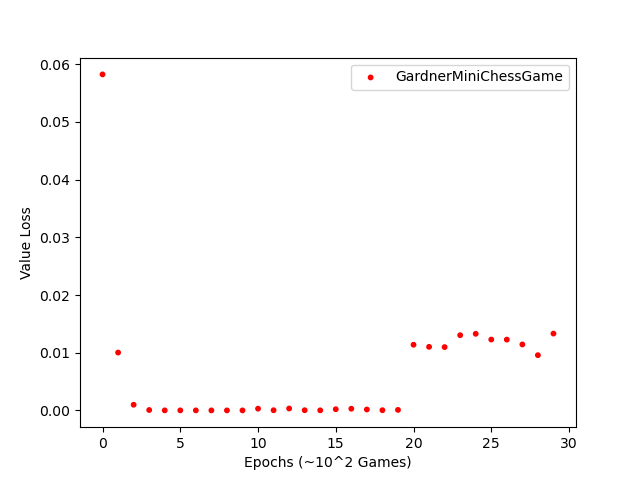
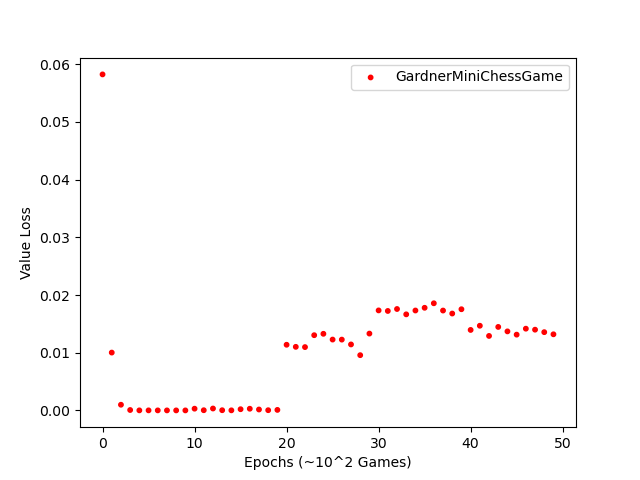
Implemented our metatraining loop for a JOAT model. Updated README.

diff --git a/learning/alpha_zero/distributed/joat_coach.py b/learning/alpha_zero/distributed/joat_coach.py
@@ -19,6 +19,8 @@ from learning.alpha_zero.distributed.mcts import MCTS
 
 from multiprocessing import Pool
 
+import copy
+
 log = logging.getLogger(__name__)
 
 class JOATCoach():
@@ -184,6 +186,103 @@ class JOATCoach():
                 gwinrates.append(float(nwins) / float(pwins + nwins + draws))
                 self.plot_win_rate(gwinrates, 'Greedy')
 
+    def metalearn(self):
+        """
+        Performs numIters iterations with numEps episodes of self-play in each
+        iteration. After every iteration, it retrains neural network with
+        examples in trainExamples (which has a maximum length of maxlenofQueue).
+        It then pits the new neural network against the old one and accepts it
+        only if it wins >= updateThreshold fraction of games.
+        """
+
+        avg_losses = []
+        rwinrates = []
+        gwinrates = []
+
+        for i in range(1, self.args['numIters'] + 1):
+
+            policies_prime = []
+            pi_sum = 0, v_sum = 0
+            counter = 0
+            
+            # bookkeeping
+            log.info(f'Starting Meta-Iteration #{i} ...')
+
+            # for task in tasks...
+            for _ in range(self.args['taskBatchSize']):
+
+                # create deepcopy for training a theta'
+                policy_prime = copy.deepcopy(self.nnet)
+            
+                # sample a game (task)
+                game = np.random.choice(self.games, p=self.probs)
+                log.info(f'Sampled game {type(game).__name__} ...')
+
+                # multiprocess to get our training examples
+                iterationTrainExamples = deque([], maxlen=self.args['maxlenOfQueue'])
+                iterationTrainExamples = run_apply_async_multiprocessing(self.executeEpisode, [(MCTS(game, self.nnet, self.args), type(game)(), self.args.copy())] * self.args['numEps'], self.args['numWorkers'], desc='Self Play')
+                iterationTrainExamples = list(itertools.chain.from_iterable(iterationTrainExamples))
+
+                # shuffle examples before training
+                shuffle(iterationTrainExamples)
+
+                # train our network
+                pi_v_losses = policy_prime.train(iterationTrainExamples)
+
+                policies_prime.append(policies_prime.state_dict())
+
+                for pi,v in pi_v_losses:
+                    pi_sum += pi
+                    v_sum += v
+                    counter += 1
+            
+            # compute average parameters and load into self.nnet
+            self.nnet.load_average_params(policies_prime)
+
+            # compute average losses
+            avg_losses.append((float(pi_sum) / counter, float(v_sum) / counter, ''))
+            self.plot_current_progress(avg_losses)
+
+            # training new network, keeping a copy of the old one
+            self.nnet.save_checkpoint(folder=self.args['checkpoint'] + '/meta', filename='temp.pth.tar')
+            self.pnet.load_checkpoint(folder=self.args['checkpoint'] + '/meta', filename='temp.pth.tar')
+            pmcts = MCTS(self.games[0], self.pnet, self.args)
+
+
+            # Arena if we choose to run it
+            if self.args['arenaComparePerGame'] > 0:
+                # ARENA
+                nmcts = MCTS(self.games[0], self.nnet, self.args)
+
+                log.info('PITTING AGAINST PREVIOUS VERSION')
+                arena = Arena()
+                pwins, nwins, draws = arena.playGames(self.pnet, self.nnet, self.args, self.games)
+
+                log.info('NEW/PREV WINS : %d / %d ; DRAWS : %d' % (nwins, pwins, draws))
+                if pwins + nwins == 0 or float(nwins) / (pwins + nwins) < self.args['updateThreshold']:
+                    log.info('REJECTING NEW MODEL')
+                    self.nnet.load_checkpoint(folder=self.args['checkpoint'], filename='temp.pth.tar')
+                else:
+                    log.info('ACCEPTING NEW MODEL')
+                    self.nnet.save_checkpoint(folder=self.args['checkpoint'], filename=self.getCheckpointFile(i))
+                    self.nnet.save_checkpoint(folder=self.args['checkpoint'], filename='best.pth.tar')
+
+            # our baselines if we choose to run them
+            if self.args['evalOnBaselines']:
+                mod_args = self.args.copy()
+                mod_args['arenaComparePerGame'] = 20
+
+                log.info('Evaluating against baselines...')
+
+                arena = Arena()
+                pwins, nwins, draws = arena.playGames('random', self.nnet, mod_args, self.games)
+                rwinrates.append(float(nwins) / float(pwins + nwins + draws))
+                self.plot_win_rate(rwinrates, 'Random')
+
+                arena = Arena()
+                pwins, nwins, draws = arena.playGames('greedy', self.nnet, mod_args, self.games)
+                gwinrates.append(float(nwins) / float(pwins + nwins + draws))
+                self.plot_win_rate(gwinrates, 'Greedy')
 
     def getCheckpointFile(self, iteration):
         return 'checkpoint_' + str(iteration) + '.pth.tar'

diff --git a/scripts/train.py b/scripts/train.py
@@ -15,6 +15,8 @@ if __name__ == "__main__": # for multiprocessing
 
     parser = argparse.ArgumentParser(description='Train a multitasking minichess model.')
 
+    parser.add_argument('--loading_path', action='store', default=None, help='Path to the learning model weights.')
+
     parser.add_argument('--iterations', action='store', default='500', type=int, help='Number of full AlphaZero iterations to run for training (default: 500)')
 
     parser.add_argument('--episodes', action='store', default='100', type=int, help='Number of episodes of self-play per iteration (default: 100)' )
@@ -29,9 +31,11 @@ if __name__ == "__main__": # for multiprocessing
 
     parser.add_argument('--workers', action='store', default='1', type=int, help='The number of workers to use to process self- and arena-play. A value >1 will leverage multiprocessing. (default: 1)')
 
-    parser.add_argument('--games', dest='games', action='store', nargs='+', default='gardner', choices=['gardner', 'mallet', 'baby', 'rifle', 'dark', 'atomic'], type=str, help='The games to consider during training. (default: just gardner)')
+    parser.add_argument('--games', dest='games', action='store', nargs='+', default='gardner', choices=['gardner', 'mallet', 'baby', 'rifle', 'dark', 'atomic'], type=str, help='The games to consider during training. If more than one game is input, we will metatrain. (default: just gardner)')
 
     parser.add_argument('--probs', action='store', nargs='+', type=float, default=None, help='The probabilities of the games to consider during training. The ith probability corresponds to the ith game provided. If no value is provided, this defaults to a uniform distribution across the provided games. (default: uniform dist)')
+
+    parser.add_argument('--task_batch_size', action='store', type=int, default=4, help='The number of tasks to sample in a given metalearning iteration. Not used if len(games) <= 1. (default: 4)')
 
     parser.add_argument('--eval_on_baselines', action='store_true', default=False, help='If passed in, we will evaluate our model against random and greedy players and plot the win rates.')
 
@@ -61,6 +65,7 @@ if __name__ == "__main__": # for multiprocessing
         'arenaComparePerGame': args.arenapergame,         # Number of games to play during arena play to determine if new net will be accepted.
         'cpuct': 1,
         'maxMoves': args.max_moves,
+        'taskBatchSize': args.task_batch_size,
 
         'numWorkers': args.workers,
         'cuda': True,
@@ -68,8 +73,8 @@ if __name__ == "__main__": # for multiprocessing
         'evalOnBaselines': args.eval_on_baselines,
 
         'checkpoint': './temp/',
-        'load_model': False,
-        'load_folder_file': ('/dev/models/8x100x50','best.pth.tar'),
+        'load_model': not args.learning_path is None,
+        'load_folder_file': ('/'.join(args.learning_path.split('/')[:-1]),args.learning_path.split('/')[-1]),
         'numItersForTrainExamplesHistory': 20,
     })
 
@@ -118,6 +123,8 @@ if __name__ == "__main__": # for multiprocessing
         log.warning('Not loading a checkpoint!')
 
     log.info('Loading the JOAT Coach...')
+
+        
     c = JOATCoach(games, probs, nnet, train_args)
     # c = Coach(g, nnet, args)
 
@@ -125,5 +132,9 @@ if __name__ == "__main__": # for multiprocessing
         log.info("Loading 'trainExamples' from file...")
         c.loadTrainExamples()
 
-    log.info('Starting the learning process 🎉')
-    c.learn()
+    if len(games) > 1:
+        log.info('Starting the metalearning process 🎉')
+        c.metalearn()
+    else:
+        log.info('Starting the learning process 🎉')
+        c.learn()

diff --git a/learning/alpha_zero/distributed/pytorch/NNet.py b/learning/alpha_zero/distributed/pytorch/NNet.py
@@ -1,8 +1,10 @@
+from copy import copy
 import os
 import sys
 import time
 
 import numpy as np
+from numpy.lib.function_base import average
 from tqdm import tqdm
 
 from learning.alpha_zero.distributed.utils import *
@@ -31,14 +33,17 @@ class NNetWrapper(NeuralNet):
         self.board_x, self.board_y = (5, 5)
         self.action_size = LEN_ACTION_SPACE
 
-        if args['cuda']:
-            self.nnet.cuda()
+        # if args['cuda']: # can't happen with multiprocessing
+        #     self.nnet.cuda()
 
     def train(self, examples):
         """
         examples: list of examples, each example is of form (board, pi, v)
         """
         optimizer = optim.Adam(self.nnet.parameters())
+
+        if args['cuda']: # this is not multiprocessed so we can use CUDA
+            self.nnet = self.nnet.cuda()
 
         losses = []
 
@@ -59,7 +64,7 @@ class NNetWrapper(NeuralNet):
                 target_vs = torch.FloatTensor(np.array(vs).astype(np.float64))
 
                 # predict
-                if args['cuda']:
+                if args['cuda']: # this is not multiprocessed so we can use CUDA
                     boards, target_pis, target_vs = boards.contiguous().cuda(), target_pis.contiguous().cuda(), target_vs.contiguous().cuda()
 
                 # compute output
@@ -78,6 +83,10 @@ class NNetWrapper(NeuralNet):
                 total_loss.backward()
                 optimizer.step()
             losses.append((pi_losses.avg,v_losses.avg))
+
+        # back to CPU
+        self.nnet = self.nnet.cpu()
+
         return losses
 
     def predict(self, board):
@@ -91,7 +100,7 @@ class NNetWrapper(NeuralNet):
         board = board[np.newaxis, :, :]
         # preparing input
         board = torch.FloatTensor(board.astype(np.float64))
-        if args['cuda']: board = board.contiguous().cuda()
+        # if args['cuda']: board = board.contiguous().cuda() # does not work with multiprocessing
         board = board.view(1, self.board_x, self.board_y)
         self.nnet.eval()
         with torch.no_grad():
@@ -126,7 +135,44 @@ class NNetWrapper(NeuralNet):
         checkpoint = torch.load(filepath, map_location=map_location)
         self.nnet.load_state_dict(checkpoint['state_dict'])
 
+    def state_dict(self):
+        '''
+            Returns
+            -------
+            The state_dict of self.nnet
+        '''
+        return self.nnet.state_dict()
+
+    def load_average_params(self, state_dicts):
+        '''
+            Given a list of state_dicts, take the average across them all
+            and set self.nnet's weights as this average.
+
+            Returns
+            -------
+            the average state_dict
+        '''
+
+        first_dict = state_dicts[0]
+
+        avg_dict = {}
+
+        for key in first_dict:
+            avg_dict[key] = average(np.array([d[key] for d in state_dicts]))
+
+        self.nnet.load_state_dict(avg_dict)
+
+        return avg_dict
+
     def __getstate__(self):
         self_dict = self.__dict__.copy()
         if 'pool' in self_dict: del self_dict['pool']
         return self_dict
+
+    def __deepcopy__(self, memo):
+        net = NNetWrapper(self.game)
+        net.nnet = copy.deepcopy(self.net, memo)
+        net.board_x = self.board_x
+        net.board_y = self.board_y
+        net.action_size = self.action_size
+        return net

diff --git a/README.md b/README.md
@@ -292,6 +292,33 @@ TODO
 
 ![assets/mvta_arch.png](assets/mvta_arch.png)
 
+Our meta-training architecture for multiple variants is very similar to [MAML for RL](https://arxiv.org/pdf/1703.03400.pdf), and was inspired by a project done for [MIT's 6.882](https://phillipi.github.io/6.882/2019/) in Spring of 2019: [INSECT](https://echen9898.github.io/assets/2019-05-18/882_Report.pdf). The double gradient loop of MAML requires many self-play iterations, which prove to be the most costly portion of the training loop. By removing the second gradient loop and instead take an average over the policies found in the inner loop, we cut down on a significant amount of training time. In exposing our model to our distribution of tasks by sampling a rule-variant and running it through our SVTA, we aim to produce a Jack-of-All-Trades (JOAT) model that can quickly adapt to different variants.
+
+In pseudocode:
+
+```python
+policy = random_init_policy()
+
+while not done:
+
+	tasks = sample(task_distribution)
+
+	policies_prime = []
+
+	for task in tasks:
+		loss = 0
+		for _ in range(K):
+			loss += mcts_iteration(policy)
+
+		policy_prime = policy - (alpha * gradient(loss))
+
+		policies_prime.append(policy_prime)
+
+	policy = average(policies_prime)
+
+return policy
+```
+
 #### Meta Multi-Variant Training Architecture
 
 ![assets/mmvta_arch.png](assets/mmvta_arch.png)
